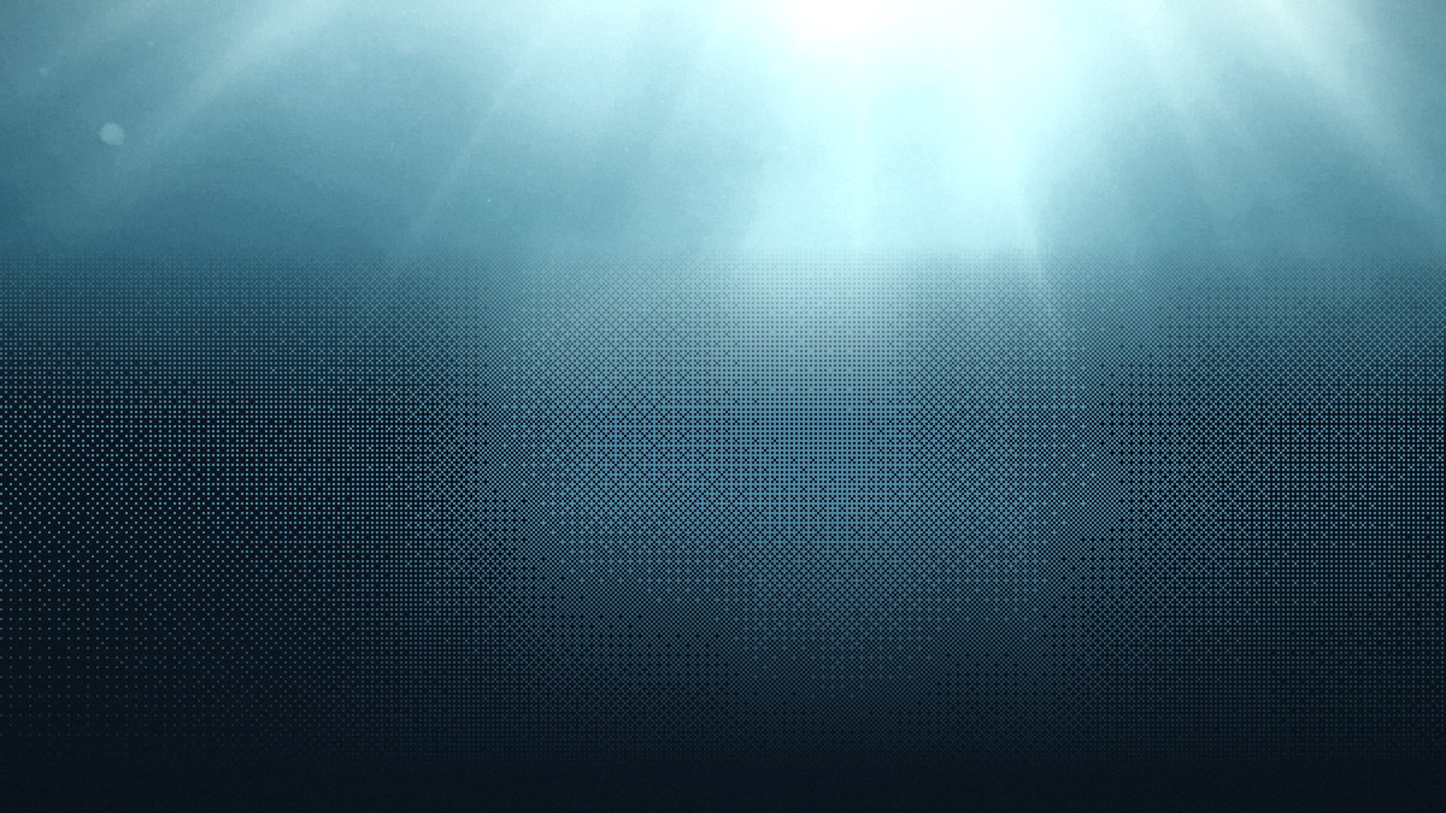
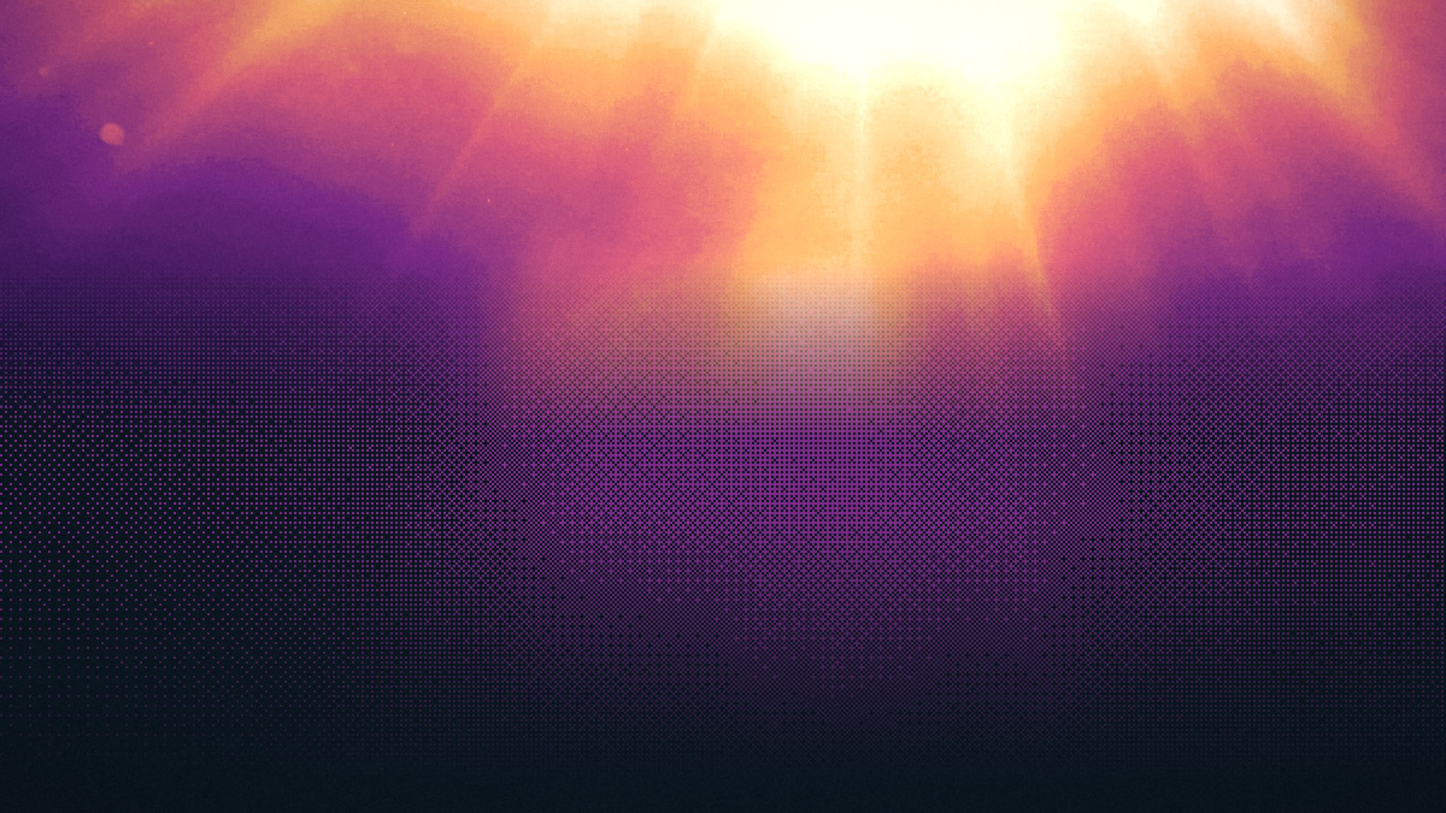
Make the page-header color glitch permanent, like Colossal's
- The six page-header images are re-rendered with false color baked in:
  gradient maps (violet and mint, sunset orange and magenta, copper,
  thermal) in zones that fade into the natural photo, plus a halftone
  dot ring on the News rover and thermal-colored slices on Donate.
- Remove the half-second flicker when a page opens: the glitch is now
  always on, in the image itself. Home cards keep the hover glitch.
- global.css and README comments updated to match.

Claude-Session: https://claude.ai/code/session_01HPvjW6KZMfatoVEK835rkc

diff --git a/src/styles/global.css b/src/styles/global.css
@@ -269,9 +269,12 @@ h3 {
   }
 }
 
-/* ---------- Color glitch ----------
-   A split-second "bad signal" moment borrowed from the Home video: the photo's red and
-   cyan channels slide apart in slices, with one false-color frame.
+/* ---------- Color glitch (moving, on hover) ----------
+   The page-header photos have a permanent false-color glitch baked into the image files,
+   like Colossal's. This is the moving version, used on Home cards when you hover: a
+   split-second "bad signal" where red and cyan copies slide apart in slices, with two
+   false-color frames. Card.astro plays the keyframes with steps(1, end), so they snap
+   like dropped video frames.
 
    Usage: wrap an image, and give the wrapper the same file as a CSS variable:
      <div class="color-glitch" style="--glitch-src: url(/talosaur-site/images/x.jpg)">
@@ -284,8 +287,8 @@ h3 {
    colored fringes. (Our photos are nearly all blue, so tinting works better than
    splitting the real red channel, which is almost empty.) The real <img> gets one
    inverted frame and one violet frame (the false-color flash).
-   Add .color-glitch--intro to play it once on page load (page headers). Cards play it
-   on hover (Card.astro). People who ask for less motion never see it (rule above). */
+   Cards play it on hover (Card.astro). People who ask for less motion never see it
+   (rule above). */
 .color-glitch {
   position: relative;
   width: 100%;
@@ -322,15 +325,6 @@ h3 {
 
 .color-glitch::after {
   background-color: var(--glitch-cyan);
-}
-
-/* steps(1, end) makes each keyframe snap instead of sliding, like dropped video frames */
-.color-glitch--intro::before {
-  animation: glitch-red 0.75s steps(1, end) 0.3s;
-}
-
-.color-glitch--intro::after {
-  animation: glitch-cyan 0.75s steps(1, end) 0.3s;
 }
 
 /* Red slides one way, cyan the other; clip-path shows only a horizontal band at a time */

diff --git a/README.md b/README.md
@@ -87,7 +87,7 @@ Swap any of these for real team photos whenever you have them. The build log ima
 
 **Page headers.** Every page in the top menu opens with a full-width photo band. The photos live in `public/images/pages/` and are named after the page: `who-we-are.jpg`, `the-problem.jpg`, `news.jpg`, `work-with-us.jpg`, `positions.jpg`, `donate.jpg`. Each is 2400 × 1350 and edited in the same style as the Home video (dots, smears, scan lines). The title sits over the bottom-left of the photo, so keep that area calm and darkish. To change which part of a photo stays visible on phones, edit `imagePosition` where the page uses `<PageHeader>` (for example `imagePosition="60% 50%"` keeps a bit right of center). Delete a page's photo and that page goes back to a plain title.
 
-**Color glitch.** When a page opens, its header photo flickers for under half a second: red and cyan copies slide apart in slices, with one copper and one violet frame, like the Home video's glitches. Home cards do the same on hover. It's all CSS (the "Color glitch" section of `src/styles/global.css`), and visitors who turn on "reduce motion" don't see it. To turn it off on page headers, remove `color-glitch--intro` in `src/components/PageHeader.astro`; for cards, delete the three `.card:hover .color-glitch` rules in `src/components/Card.astro`.
+**Color glitch.** Like Colossal's, the page-header photos are permanently false-colored: a gradient map swaps the photo's light and dark for bold colors (violet and mint, sunset orange and magenta, copper), in zones that fade into the natural photo, with halftone dots and shifted slices. That's baked into the image files, so a replacement photo needs the same treatment (ask for it, or edit it in any photo app with a gradient map). Home cards also do a split-second moving glitch on hover (red and cyan copies sliding apart, with one copper and one violet frame). That part is CSS: the "Color glitch" section of `src/styles/global.css`, played by the three `.card:hover .color-glitch` rules in `src/components/Card.astro` (delete those to turn it off). Visitors who turn on "reduce motion" don't see it.
 
 **Team members:** the `photo` name in `src/data/team.ts`, saved in `public/images/team/` (portrait, about 800 × 1000 px). Until the file exists the card shows a panel with the person's initials.
 
